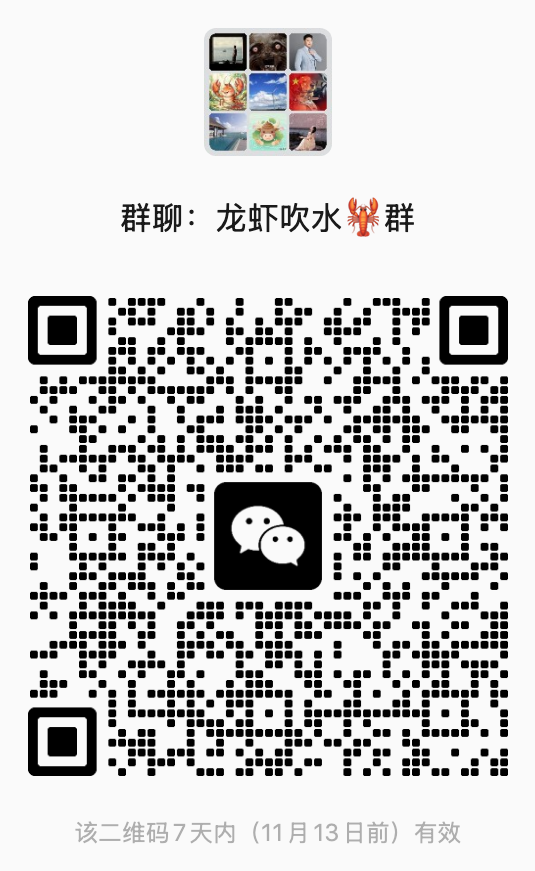
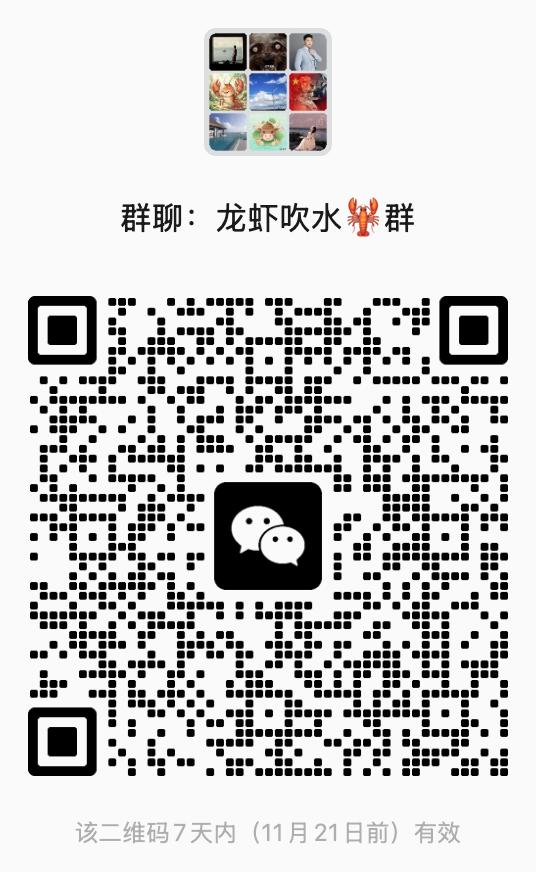
docs(community): 换用新的微信群二维码（11 月 21 日前有效）

diff --git a/README.md b/README.md
@@ -386,7 +386,7 @@ dsh plugin --profile web add ./q253595422-dsh-imagegen-video-X.Y.Z.tgz
   <img src="docs/images/wechat-group-qr.png" alt="微信群「龙虾吹水🦞群」的加群二维码" width="360" />
 </div>
 
-> 二维码 7 天内有效（2026 年 11 月 13 日前）。过期或人数已满时，请改到
+> 二维码 7 天内有效（2026 年 11 月 21 日前）。过期或人数已满时，请改到
 > [Issues](https://github.com/q253595422/dsh-imagegen-video/issues) 提问题，
 > 并提醒维护者换一张新码。安全敏感的问题不要发在群里，也不要贴 API 密钥。
 
